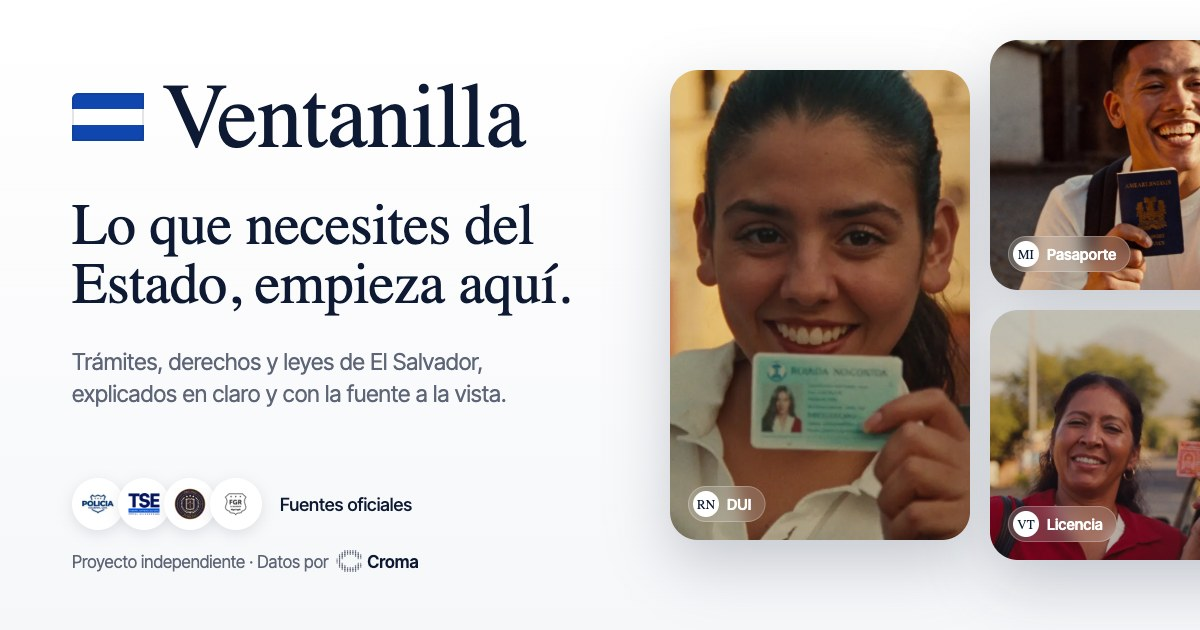
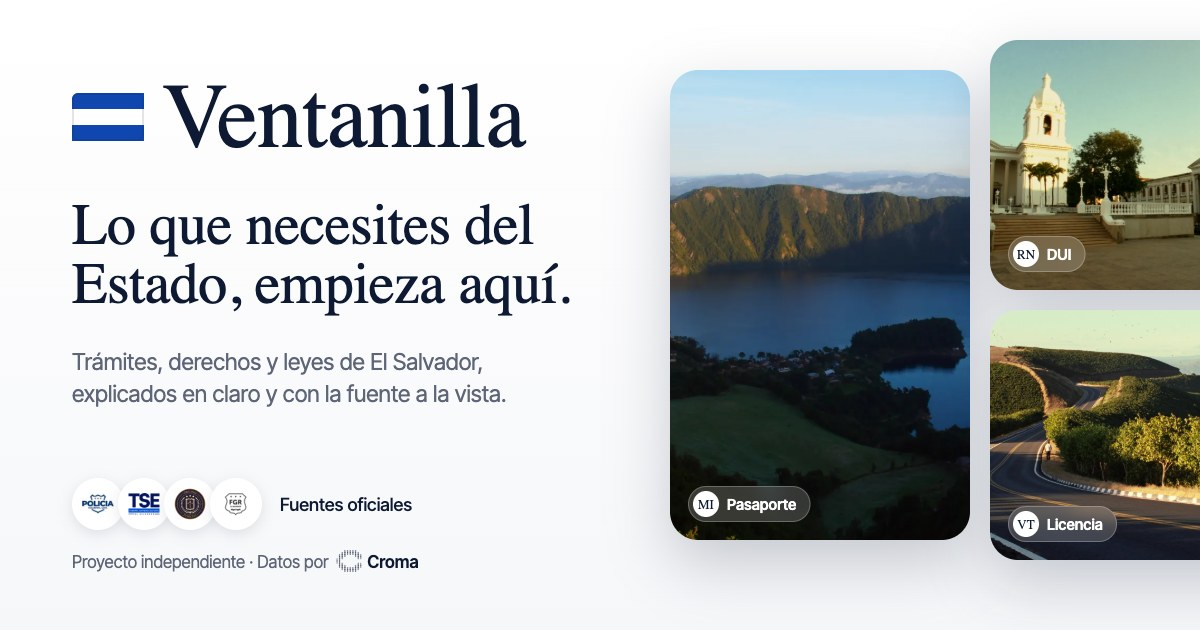
El Salvador: landscapes instead of people in the hero and guides
Coatepeque, Suchitoto, Izalco, Ilopango, Apaneca, El Tunco, the Ruta de
las Flores and the historic center of San Salvador. Files are named after
each place so browsers drop the cached photos.

diff --git a/src/countries/sv/tramites.ts b/src/countries/sv/tramites.ts
@@ -1,31 +1,31 @@
 import type { Tramite } from "../types";
 
 export const tramites: readonly Tramite[] = [
-  { slug: "dui-primera-vez", category: "identidad", title: "Cómo sacar el DUI por primera vez", question: "¿Cómo saco el DUI por primera vez?", entity: "rnpn.gob.sv", domains: ["rnpn.gob.sv", "simple.sv"], image: "dui" },
+  { slug: "dui-primera-vez", category: "identidad", title: "Cómo sacar el DUI por primera vez", question: "¿Cómo saco el DUI por primera vez?", entity: "rnpn.gob.sv", domains: ["rnpn.gob.sv", "simple.sv"], image: "centro-historico" },
   { slug: "reposicion-dui", category: "identidad", title: "Cómo reponer el DUI perdido", question: "Perdí mi DUI, ¿cómo saco la reposición?", entity: "rnpn.gob.sv", domains: ["rnpn.gob.sv", "simple.sv"] },
   { slug: "renovar-dui", category: "identidad", title: "Cómo renovar el DUI vencido", question: "¿Cómo renuevo mi DUI vencido?", entity: "rnpn.gob.sv", domains: ["rnpn.gob.sv", "simple.sv"] },
   { slug: "dui-a-domicilio", category: "identidad", title: "Cómo pedir el DUI a domicilio", question: "¿Cómo solicito el servicio de DUI a domicilio?", entity: "rnpn.gob.sv", domains: ["rnpn.gob.sv"] },
-  { slug: "partida-de-nacimiento", category: "identidad", title: "Cómo pedir una partida de nacimiento", question: "¿Cómo pido una certificación de partida de nacimiento en línea?", entity: "rnpn.gob.sv", domains: ["rnpn.gob.sv", "simple.sv"], image: "partida" },
-  { slug: "pasaporte-primera-vez", category: "identidad", title: "Cómo sacar el pasaporte por primera vez", question: "¿Cómo saco el pasaporte salvadoreño por primera vez?", entity: "migracion.gob.sv", domains: ["migracion.gob.sv", "simple.sv"], image: "pasaporte" },
+  { slug: "partida-de-nacimiento", category: "identidad", title: "Cómo pedir una partida de nacimiento", question: "¿Cómo pido una certificación de partida de nacimiento en línea?", entity: "rnpn.gob.sv", domains: ["rnpn.gob.sv", "simple.sv"], image: "suchitoto" },
+  { slug: "pasaporte-primera-vez", category: "identidad", title: "Cómo sacar el pasaporte por primera vez", question: "¿Cómo saco el pasaporte salvadoreño por primera vez?", entity: "migracion.gob.sv", domains: ["migracion.gob.sv", "simple.sv"], image: "coatepeque" },
   { slug: "renovar-pasaporte", category: "identidad", title: "Cómo renovar el pasaporte", question: "¿Cómo renuevo mi pasaporte salvadoreño?", entity: "migracion.gob.sv", domains: ["migracion.gob.sv", "simple.sv"] },
   { slug: "pasaporte-menor-de-edad", category: "familia", title: "Cómo sacar el pasaporte de un menor de edad", question: "¿Cómo saco el pasaporte para mi hijo menor de edad?", entity: "migracion.gob.sv", domains: ["migracion.gob.sv"] },
-  { slug: "pasaporte-desde-el-exterior", category: "exterior", title: "Cómo sacar el pasaporte desde el exterior", question: "Vivo fuera de El Salvador, ¿cómo saco o renuevo mi pasaporte en un consulado?", entity: "rree.gob.sv", domains: ["rree.gob.sv", "simple.sv", "migracion.gob.sv"], image: "exterior" },
+  { slug: "pasaporte-desde-el-exterior", category: "exterior", title: "Cómo sacar el pasaporte desde el exterior", question: "Vivo fuera de El Salvador, ¿cómo saco o renuevo mi pasaporte en un consulado?", entity: "rree.gob.sv", domains: ["rree.gob.sv", "simple.sv", "migracion.gob.sv"], image: "el-tunco" },
   { slug: "dui-desde-el-exterior", category: "exterior", title: "Cómo sacar el DUI desde el exterior", question: "Vivo fuera de El Salvador, ¿cómo saco o renuevo mi DUI?", entity: "rree.gob.sv", domains: ["rree.gob.sv", "rnpn.gob.sv"] },
   { slug: "apostillar-documentos", category: "exterior", title: "Cómo apostillar un documento", question: "¿Cómo apostillo un documento salvadoreño para usarlo en otro país?", entity: "rree.gob.sv", domains: ["rree.gob.sv", "simple.sv"] },
   { slug: "residencia-extranjeros", category: "extranjeros", title: "Cómo pedir la residencia en El Salvador", question: "Soy extranjero, ¿cómo solicito la residencia temporal en El Salvador?", entity: "migracion.gob.sv", domains: ["migracion.gob.sv", "simple.sv"] },
-  { slug: "antecedentes-penales", category: "justicia", title: "Cómo sacar la constancia de antecedentes penales", question: "¿Cómo saco la constancia de antecedentes penales?", entity: "seguridad.gob.sv", domains: ["simple.sv", "seguridad.gob.sv"], image: "antecedentes" },
+  { slug: "antecedentes-penales", category: "justicia", title: "Cómo sacar la constancia de antecedentes penales", question: "¿Cómo saco la constancia de antecedentes penales?", entity: "seguridad.gob.sv", domains: ["simple.sv", "seguridad.gob.sv"], image: "izalco" },
   { slug: "solvencia-pnc", category: "justicia", title: "Cómo sacar la solvencia de la PNC", question: "¿Cómo saco la solvencia de la PNC?", entity: "pnc.gob.sv", domains: ["pnc.gob.sv", "simple.sv"] },
   { slug: "cuota-alimenticia", category: "familia", title: "Cómo pedir la cuota alimenticia", question: "¿Cómo pido la cuota alimenticia para mi hijo en la Procuraduría?", entity: "pgr.gob.sv", domains: ["pgr.gob.sv"] },
   { slug: "denuncia-fiscalia", category: "justicia", title: "Cómo poner una denuncia", question: "¿Cómo pongo una denuncia ante la Fiscalía?", entity: "fiscalia.gob.sv", domains: ["fiscalia.gob.sv", "pnc.gob.sv"] },
   { slug: "reclamo-defensoria", category: "justicia", title: "Cómo poner un reclamo en la Defensoría del Consumidor", question: "¿Cómo pongo un reclamo contra una tienda en la Defensoría del Consumidor?", entity: "defensoria.gob.sv", domains: ["defensoria.gob.sv"] },
-  { slug: "licencia-de-conducir", category: "movilidad", title: "Cómo sacar la licencia de conducir por primera vez", question: "¿Cómo saco la licencia de conducir por primera vez?", entity: "vmt.gob.sv", domains: ["vmt.gob.sv", "sertracen.com.sv"], image: "licencia" },
+  { slug: "licencia-de-conducir", category: "movilidad", title: "Cómo sacar la licencia de conducir por primera vez", question: "¿Cómo saco la licencia de conducir por primera vez?", entity: "vmt.gob.sv", domains: ["vmt.gob.sv", "sertracen.com.sv"], image: "ruta-de-las-flores" },
   { slug: "renovar-licencia", category: "movilidad", title: "Cómo renovar la licencia de conducir", question: "¿Cómo renuevo mi licencia de conducir?", entity: "vmt.gob.sv", domains: ["vmt.gob.sv", "sertracen.com.sv"] },
   { slug: "nit-y-dui", category: "impuestos", title: "Si necesitas NIT o te sirve el DUI", question: "¿Todavía necesito NIT o me sirve el DUI como NIT?", entity: "mh.gob.sv", domains: ["mh.gob.sv"] },
   { slug: "declaracion-de-renta", category: "impuestos", title: "Cómo presentar la declaración de renta", question: "¿Cómo presento la declaración de impuesto sobre la renta como persona natural?", entity: "mh.gob.sv", domains: ["mh.gob.sv"] },
   { slug: "factura-electronica", category: "impuestos", title: "Cómo empezar a emitir factura electrónica", question: "¿Cómo me registro para emitir facturas electrónicas (DTE) ante Hacienda?", entity: "mh.gob.sv", domains: ["mh.gob.sv"] },
-  { slug: "registrar-empresa", category: "impuestos", title: "Cómo registrar una empresa", question: "¿Cómo registro una empresa en El Salvador?", entity: "cnr.gob.sv", domains: ["cnr.gob.sv", "miempresa.gob.sv", "invest.gob.sv", "investinelsalvador.gob.sv"], image: "empresa" },
+  { slug: "registrar-empresa", category: "impuestos", title: "Cómo registrar una empresa", question: "¿Cómo registro una empresa en El Salvador?", entity: "cnr.gob.sv", domains: ["cnr.gob.sv", "miempresa.gob.sv", "invest.gob.sv", "investinelsalvador.gob.sv"], image: "apaneca" },
   { slug: "sociedad-sas", category: "impuestos", title: "Cómo crear una sociedad por acciones simplificada", question: "¿Cómo creo una sociedad por acciones simplificada (SAS)?", entity: "cnr.gob.sv", domains: ["cnr.gob.sv"] },
-  { slug: "inscripcion-isss", category: "salud", title: "Cómo inscribirse en el ISSS", question: "¿Cómo me inscribo en el ISSS como trabajador?", entity: "isss.gob.sv", domains: ["isss.gob.sv"], image: "isss" },
+  { slug: "inscripcion-isss", category: "salud", title: "Cómo inscribirse en el ISSS", question: "¿Cómo me inscribo en el ISSS como trabajador?", entity: "isss.gob.sv", domains: ["isss.gob.sv"], image: "ilopango" },
   { slug: "isss-independientes", category: "salud", title: "Cómo afiliarse al ISSS como independiente", question: "Trabajo por mi cuenta, ¿cómo me afilio al ISSS como independiente?", entity: "isss.gob.sv", domains: ["isss.gob.sv"] },
   { slug: "aguinaldo", category: "trabajo", title: "Cuánto es el aguinaldo", question: "¿Cuánto me toca de aguinaldo y cuándo lo deben pagar?", entity: "mtps.gob.sv", domains: ["mtps.gob.sv", "asamblea.gob.sv"] },
   { slug: "vacaciones", category: "trabajo", title: "Cuántos días de vacaciones tiene un trabajador", question: "¿Cuántos días de vacaciones tiene un trabajador en El Salvador?", entity: "mtps.gob.sv", domains: ["mtps.gob.sv", "asamblea.gob.sv"] },

diff --git a/src/countries/sv/site.ts b/src/countries/sv/site.ts
@@ -32,14 +32,14 @@ export const site: Site = {
     subtitle: "Lo que necesites del Estado, empieza aquí.",
     tryPrefix: "Prueba",
     cards: [
-      { slug: "dui", title: "DUI", prompt: "¿Cómo saco el DUI por primera vez?", alt: "Joven muestra su DUI recién emitido", entity: "rnpn.gob.sv", image: "dui", tone: ["#0b1f4d", "#0f47af", "#7fa7e8"] },
-      { slug: "pasaporte", title: "Pasaporte", prompt: "¿Cómo saco el pasaporte por primera vez?", alt: "Joven viajero con su pasaporte salvadoreño", entity: "migracion.gob.sv", image: "pasaporte", tone: ["#10213f", "#1d5fa8", "#f2c14e"] },
-      { slug: "licencia", title: "Licencia de conducir", prompt: "¿Cómo saco la licencia de conducir por primera vez?", alt: "Conductora con su licencia junto a su carro", entity: "vmt.gob.sv", image: "licencia", tone: ["#0e1a33", "#2f6f6a", "#b6e0c8"] },
-      { slug: "partida", title: "Partida de nacimiento", prompt: "¿Cómo pido una partida de nacimiento en línea?", alt: "Madre revisa la partida de nacimiento de su bebé", entity: "rnpn.gob.sv", image: "partida", tone: ["#1b1530", "#6a4fa3", "#f0b6c8"] },
-      { slug: "antecedentes", title: "Antecedentes penales", prompt: "¿Cómo saco la constancia de antecedentes penales?", alt: "Joven revisa una constancia en su celular", entity: "simple.sv", image: "antecedentes", tone: ["#0b1f4d", "#264b8f", "#9cc3f0"] },
-      { slug: "isss", title: "Seguro Social", prompt: "¿Cómo me inscribo en el ISSS como trabajador?", alt: "Trabajadora con su carné del Seguro Social", entity: "isss.gob.sv", image: "isss", tone: ["#0d2a2a", "#167a74", "#a5e3d6"] },
-      { slug: "empresa", title: "Empresa", prompt: "¿Cómo registro una empresa en El Salvador?", alt: "Emprendedora en su negocio en San Salvador", entity: "cnr.gob.sv", image: "empresa", tone: ["#2a1608", "#a3541d", "#f6c98a"] },
-      { slug: "exterior", title: "Desde el exterior", prompt: "Vivo fuera del país, ¿cómo renuevo mi DUI o pasaporte?", alt: "Salvadoreño en el exterior hace una videollamada con su familia", entity: "rree.gob.sv", image: "exterior", tone: ["#0e1a33", "#0f47af", "#ffffff"] },
+      { slug: "dui", title: "DUI", prompt: "¿Cómo saco el DUI por primera vez?", alt: "Catedral Metropolitana y Palacio Nacional en el centro histórico de San Salvador", entity: "rnpn.gob.sv", image: "centro-historico", tone: ["#0b1f4d", "#0f47af", "#7fa7e8"] },
+      { slug: "pasaporte", title: "Pasaporte", prompt: "¿Cómo saco el pasaporte por primera vez?", alt: "Lago de Coatepeque visto desde lo alto al amanecer", entity: "migracion.gob.sv", image: "coatepeque", tone: ["#10213f", "#1d5fa8", "#f2c14e"] },
+      { slug: "licencia", title: "Licencia de conducir", prompt: "¿Cómo saco la licencia de conducir por primera vez?", alt: "Carretera entre cafetales en la Ruta de las Flores", entity: "vmt.gob.sv", image: "ruta-de-las-flores", tone: ["#0e1a33", "#2f6f6a", "#b6e0c8"] },
+      { slug: "partida", title: "Partida de nacimiento", prompt: "¿Cómo pido una partida de nacimiento en línea?", alt: "Calle empedrada de Suchitoto con la iglesia Santa Lucía al fondo", entity: "rnpn.gob.sv", image: "suchitoto", tone: ["#1b1530", "#6a4fa3", "#f0b6c8"] },
+      { slug: "antecedentes", title: "Antecedentes penales", prompt: "¿Cómo saco la constancia de antecedentes penales?", alt: "Volcán de Izalco al atardecer", entity: "simple.sv", image: "izalco", tone: ["#0b1f4d", "#264b8f", "#9cc3f0"] },
+      { slug: "isss", title: "Seguro Social", prompt: "¿Cómo me inscribo en el ISSS como trabajador?", alt: "Lago de Ilopango al amanecer", entity: "isss.gob.sv", image: "ilopango", tone: ["#0d2a2a", "#167a74", "#a5e3d6"] },
+      { slug: "empresa", title: "Empresa", prompt: "¿Cómo registro una empresa en El Salvador?", alt: "Cafetal en las montañas de Apaneca", entity: "cnr.gob.sv", image: "apaneca", tone: ["#2a1608", "#a3541d", "#f6c98a"] },
+      { slug: "exterior", title: "Desde el exterior", prompt: "Vivo fuera del país, ¿cómo renuevo mi DUI o pasaporte?", alt: "Playa El Tunco al atardecer", entity: "rree.gob.sv", image: "el-tunco", tone: ["#0e1a33", "#0f47af", "#ffffff"] },
     ],
   },
   manifesto: {
